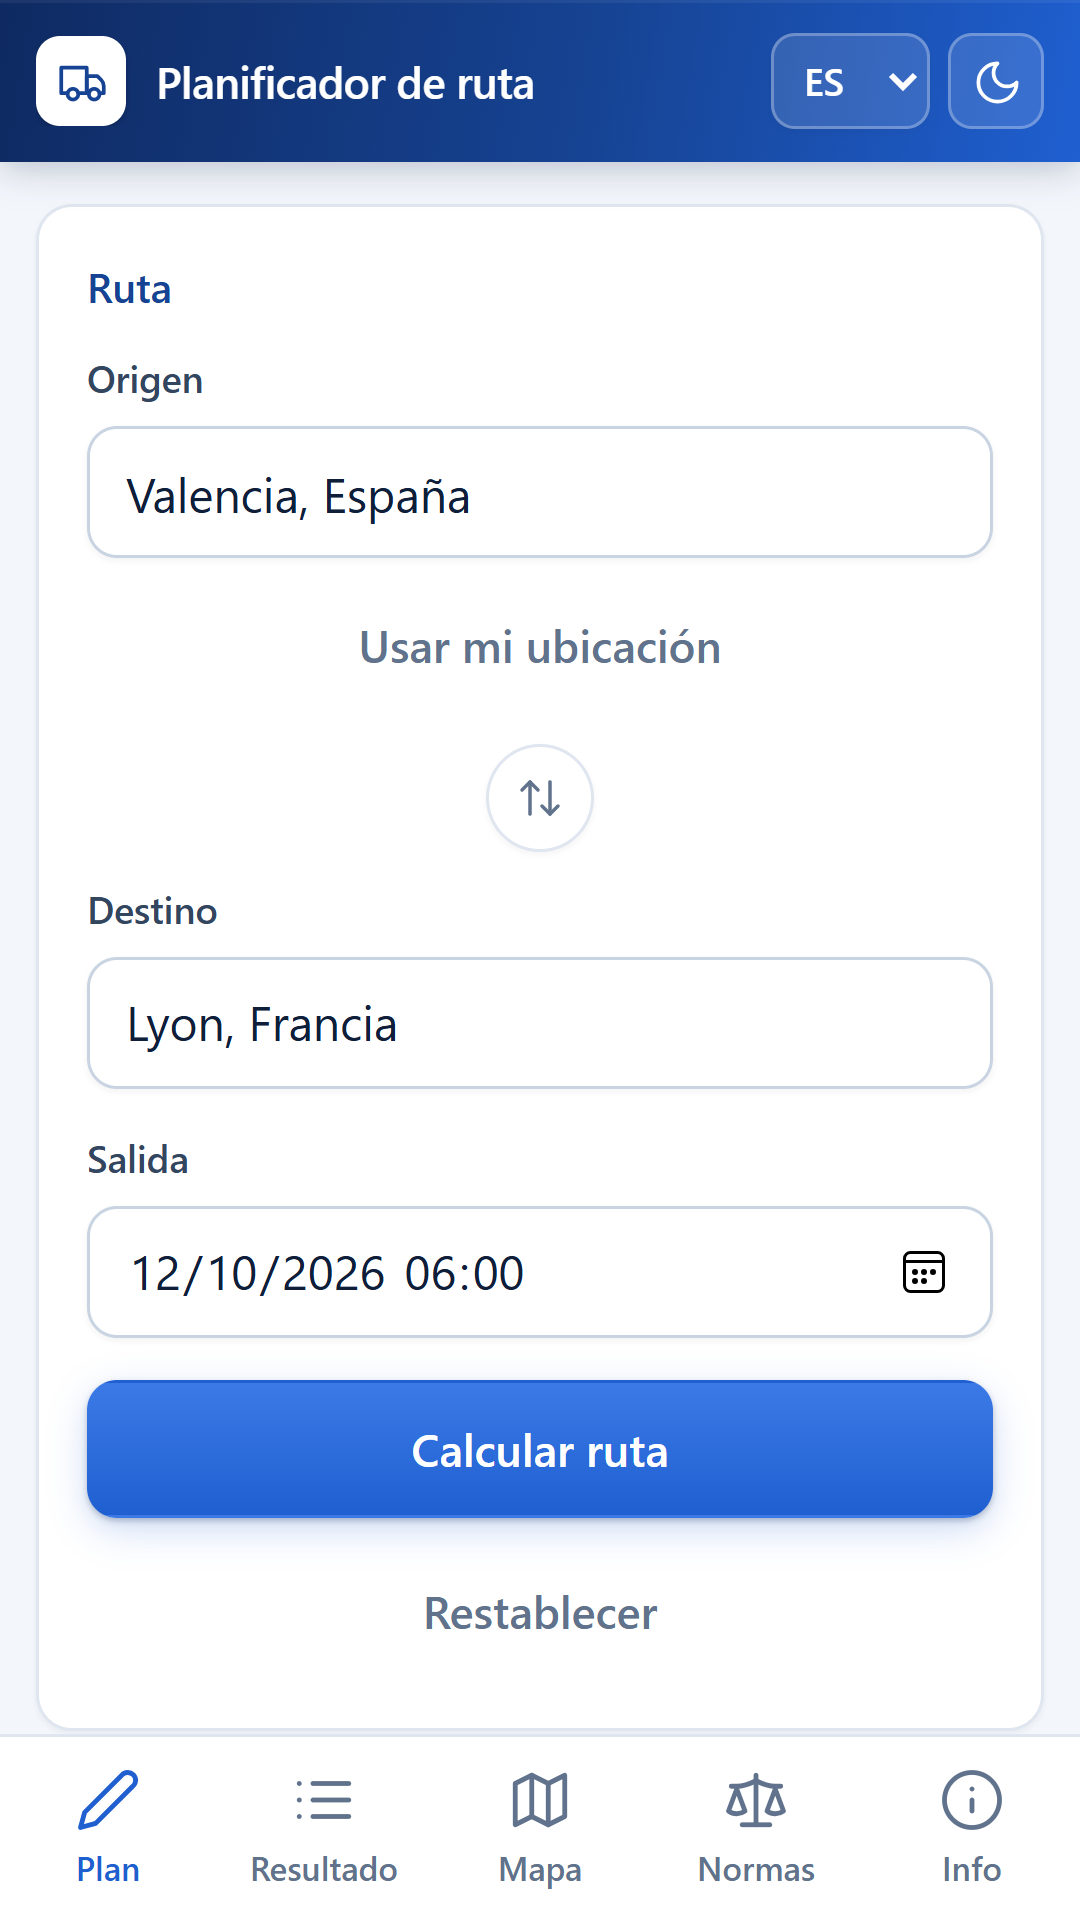
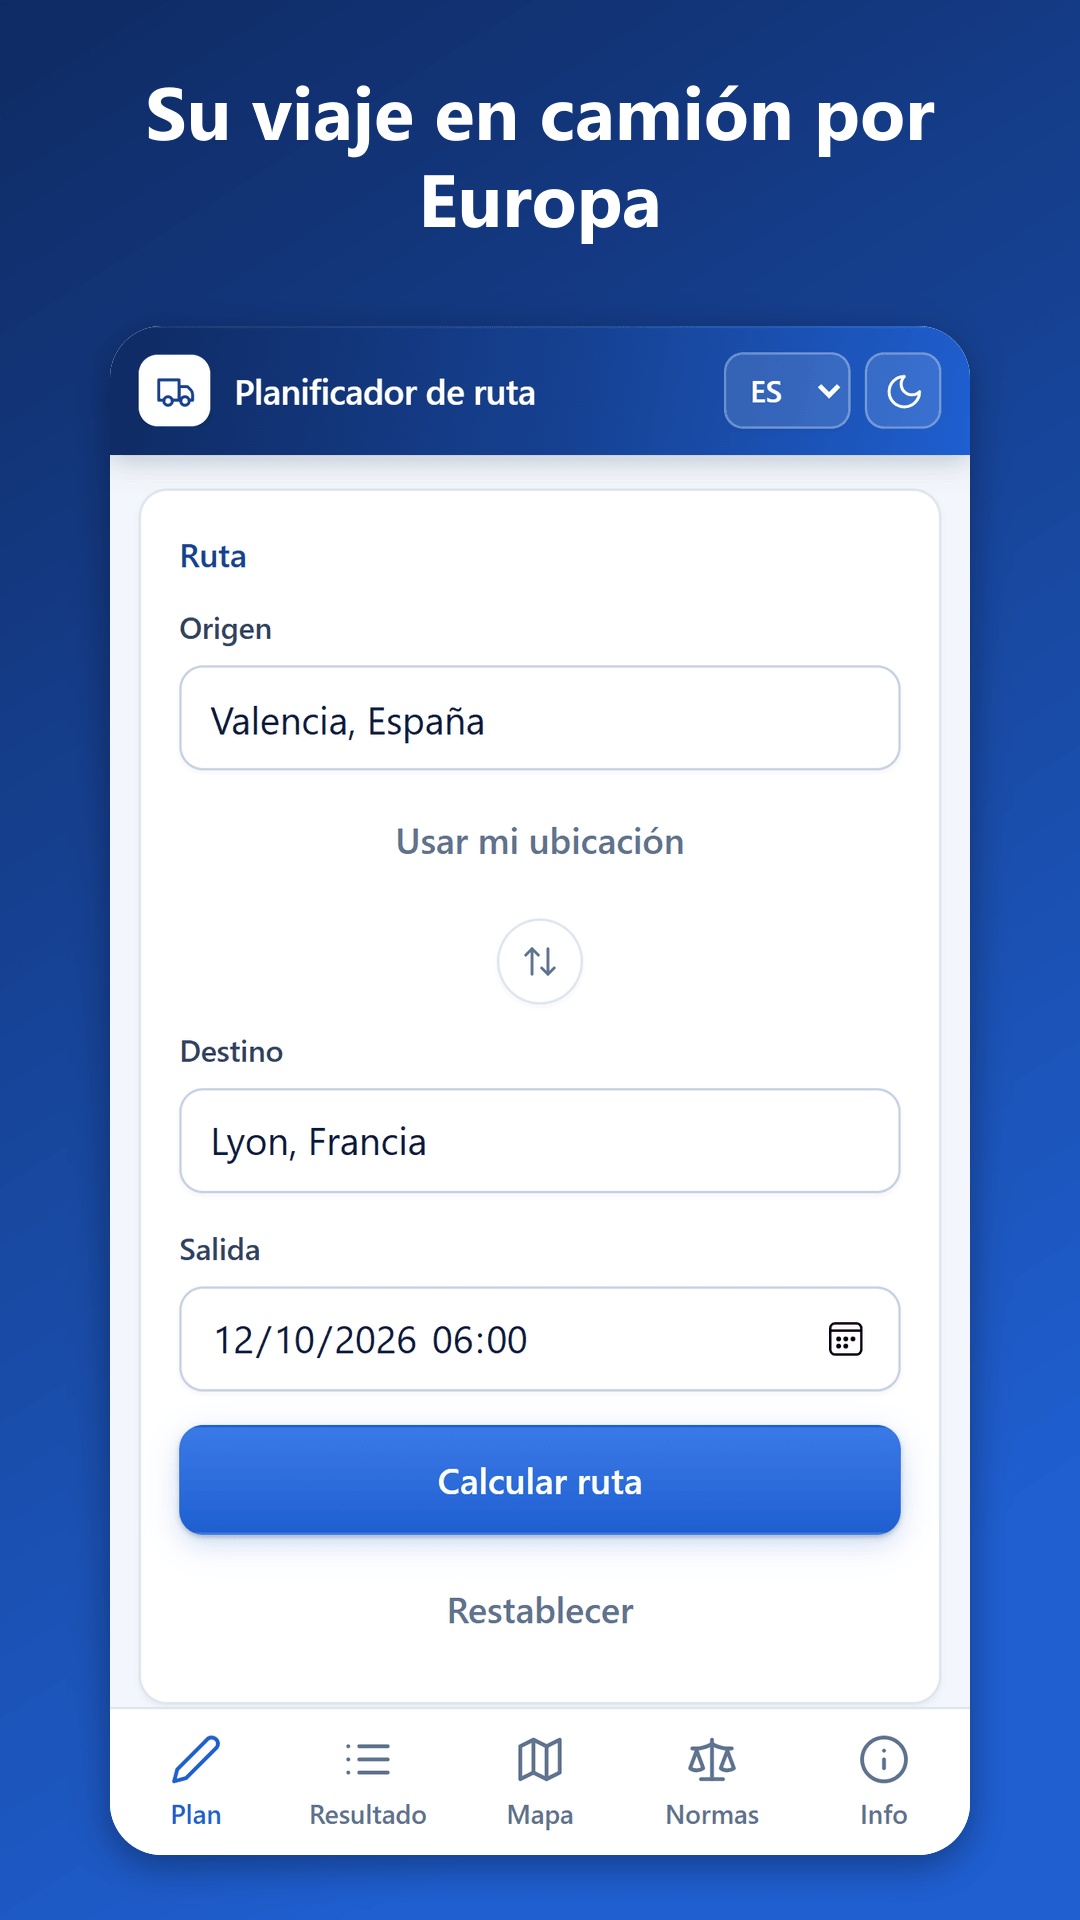
Store screenshots and feature graphics in every language
Six captioned screenshots per language for both stores (18 App Store
pages, 22 Google Play languages) and a feature graphic per Play language
with that listing's title and short description. Tests now require all of
them.

diff --git a/tests/test_ios_build.js b/tests/test_ios_build.js
@@ -638,11 +638,15 @@
     const upload = require('../tools/asc-upload-screenshots.js');
     const crypto = require('crypto');
 
-    test('the screenshots are the size App Store Connect takes', function () {
+    test('every App Store page has its six screenshots, at the size App Store Connect takes', function () {
       const sets = upload.collect();
-      const es = sets.filter(function (s) { return s.locale === 'es-ES'; })[0];
-      assert.ok(es && es.files.length >= 3 && es.files.length <= 10, 'es-ES screenshots');
-      es.files.forEach(function (f) { assert.equal(f.size, '1290x2796', f.name); });
+      const asc = require('../tools/store-listings.js').ascLocales(
+        require('../tools/store-listings.js').load(), require('../tools/store-listings.js').loadStore());
+      Object.keys(asc).forEach(function (locale) {
+        const set = sets.filter(function (s) { return s.locale === locale; })[0];
+        assert.ok(set && set.files.length === 6, locale + ' screenshots');
+        set.files.forEach(function (f) { assert.equal(f.size, '1290x2796', locale + '/' + f.name); });
+      });
     });
 
     test('the API token is an ES256 JWT Apple can verify', function () {

diff --git a/tests/test_android_build.js b/tests/test_android_build.js
@@ -144,9 +144,10 @@
 
   describe('android - the Google Play listing', function () {
     /* English is the default listing. The texts of every language are in
-       store/listings (tests in test_ios_build.js); the graphics exist in
-       English and Spanish. */
-    const LOCALES = ['en-US', 'es-ES'];
+       store/listings (tests in test_ios_build.js); each language has its own
+       feature graphic and captioned screenshots (en-GB shows the en-US ones). */
+    const PLAY = require('../tools/store-listings.js').PLAY_LOCALES;
+    const LOCALES = Object.keys(PLAY).map(function (l) { return PLAY[l][0]; });
     const gp = path.join(root, 'store', 'google-play');
 
     function pngSize(file) {
